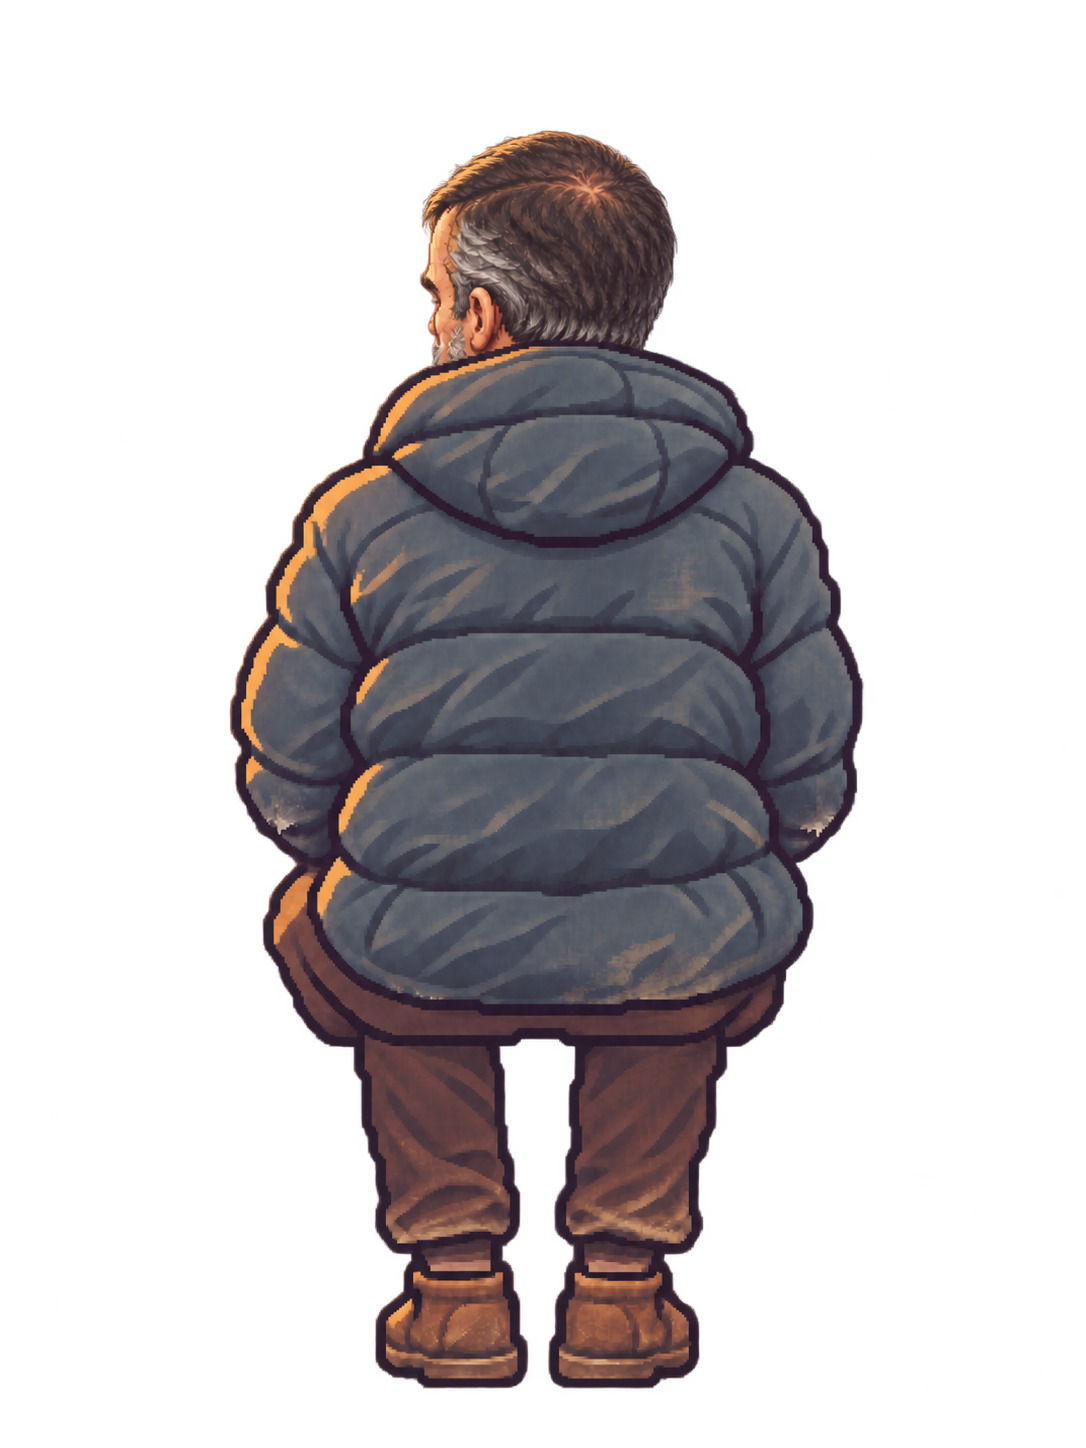
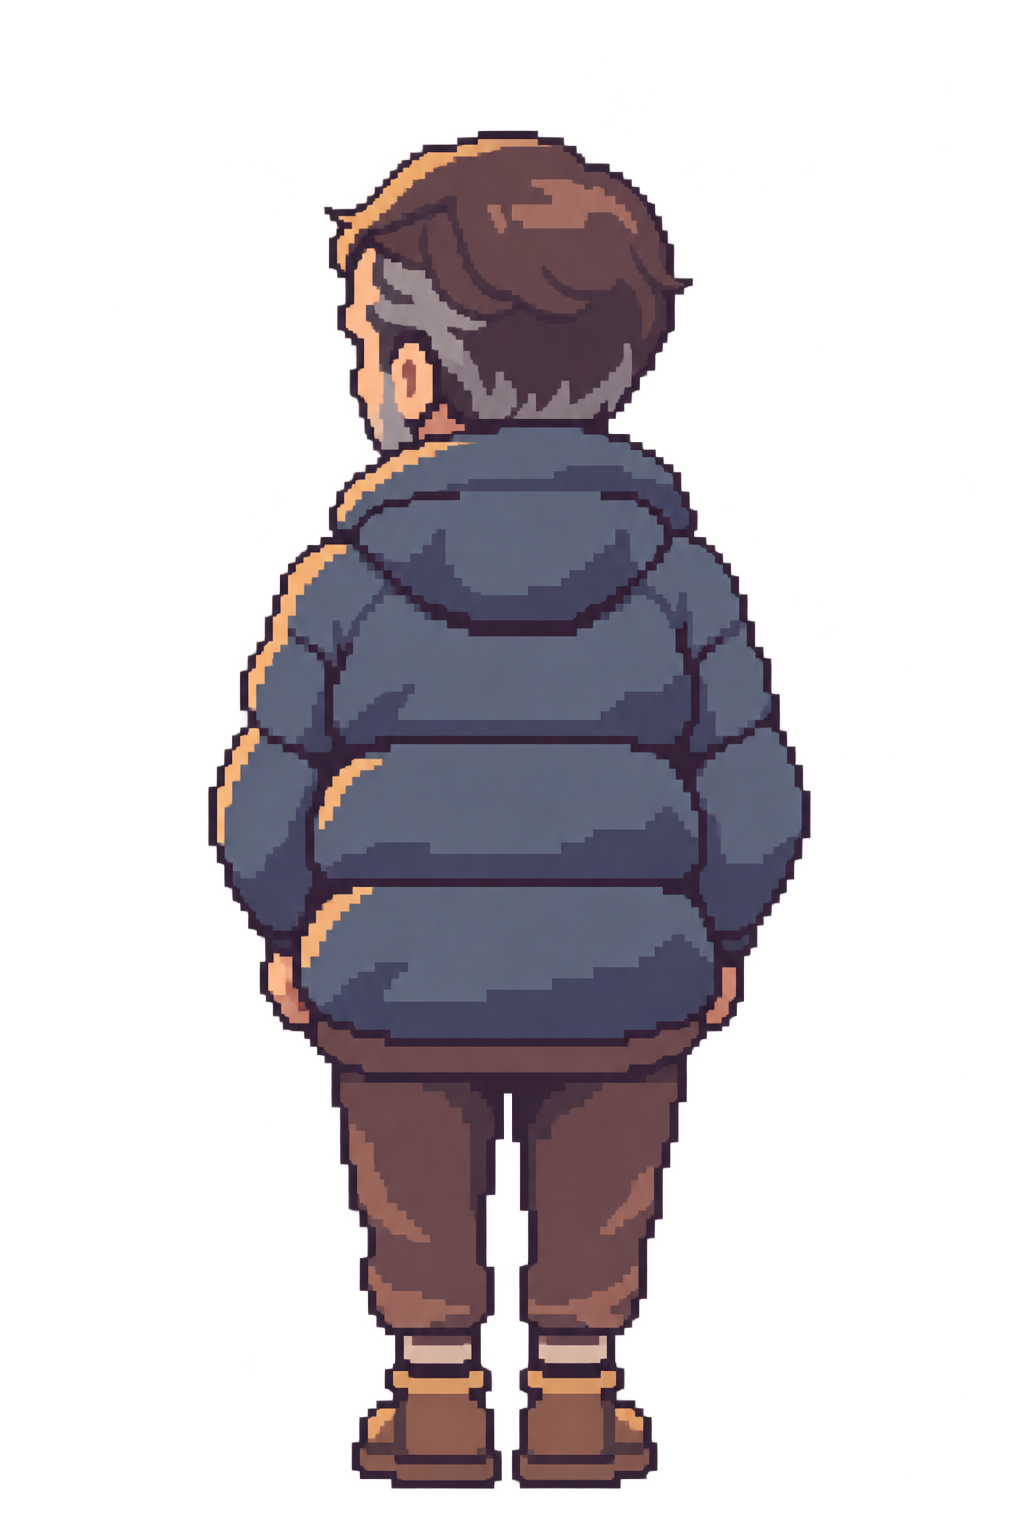
Match traveler sprite to protagonist pixel art style

Changed region(s): [[0.1875, 0.0622, 0.8125, 0.9945]]

diff --git a/game.js b/game.js
@@ -147,7 +147,7 @@ $('enterAct').onclick=()=>{chime();enterAct()};$('nextBtn').onclick=next;$('word
 document.querySelectorAll('[data-place]').forEach(b=>b.onclick=()=>observe(b.dataset.place));$('leaveBtn').onclick=leave;$('quietBtn').onclick=quiet;$('quietEnd').onclick=endQuiet;$('quietNextAct').onclick=quietNextAct;$('soundBtn').onclick=soundToggle;$('pauseBtn').onclick=()=>togglePause();$('resumeBtn').onclick=()=>togglePause(false);
 $('journalBtn').onclick=()=>{renderNotes();ui.show('journal')};$('closeJournal').onclick=()=>ui.hide('journal');$('stayBtn').onclick=()=>{ui.hide('ending');state.mode='explore';state.head=0;explore();$('exploreText').textContent='故事先停在这里。你可以再听一会儿风。';$('leaveBtn').textContent='回到结尾 →';$('leaveBtn').onclick=showEnding};$('restartBtn').onclick=()=>{state.notes=[];state.tea=false;state.choice='';$('noteCount').textContent='0';$('leaveBtn').onclick=leave;chapter(1)};
 document.addEventListener('keydown',e=>{if(e.code==='Escape'){e.preventDefault();if(!$('journal').hidden){ui.hide('journal');return}togglePause();return}if((e.code==='Space'||e.code==='Enter')&&!['BUTTON','INPUT','TEXTAREA'].includes(document.activeElement.tagName)){if(state.mode==='dialogue'){e.preventDefault();next()}}});document.addEventListener('visibilitychange',syncAudio);
-Promise.all([imageLoad('assets/station.png'),imageLoad('assets/station-clean.png'),imageLoad('assets/heads.png'),imageLoad('assets/green-train.png'),imageLoad('assets/traveler.png')]).then(images=>{[base,clean,headSheet,trainImage,travelerImage]=images;prepareLayers();state.loaded=true;ui.hide('loading')}).catch(err=>{$('loading').replaceChildren();const msg=document.createElement('p');msg.textContent='没能走到车站。请刷新页面再试一次。';$('loading').append(msg);console.error(err)});
+Promise.all([imageLoad('assets/station.png'),imageLoad('assets/station-clean.png'),imageLoad('assets/heads.png'),imageLoad('assets/green-train.png'),imageLoad('assets/traveler.png?v=pixel-style-3')]).then(images=>{[base,clean,headSheet,trainImage,travelerImage]=images;prepareLayers();state.loaded=true;ui.hide('loading')}).catch(err=>{$('loading').replaceChildren();const msg=document.createElement('p');msg.textContent='没能走到车站。请刷新页面再试一次。';$('loading').append(msg);console.error(err)});
 requestAnimationFrame(frame);
 // Inspectable state for prototype verification; no network telemetry or persistence.
 window.gameDebug={state,chapter,enterAct,observe,next,leave,quiet,endQuiet,finishChoice,showEnding,finishArrival,render,headFrames};

diff --git a/index.html b/index.html
@@ -17,5 +17,5 @@
  <div id="loading">正在走向小站<span>· · ·</span></div><div id="toast" role="status"></div>
  <footer id="controls" hidden>点击风景探索 · 空格 / 回车继续 · Esc 暂停</footer>
 </main>
-<script src="game.js"></script>
+<script src="game.js?v=pixel-style-3"></script>
 </body></html>

diff --git a/README.md b/README.md
@@ -10,7 +10,7 @@
 
 两幕分别是「今天还会来吗」和「留一点温度」。第二幕包含绿皮火车进站、风尘仆仆的中年旅客、夜风与热水的对话，以及三个结尾回应。
 
-云层、枝叶、落叶持续运动；人物对白时转头，第二幕夜色更深，站灯偶尔轻闪。支持系统减少动态效果设置。环境声通过 Web Audio 本地合成，无第三方运行时或网络音频依赖。
+云层、枝叶、落叶持续运动；人物对白时转头，第二幕夜色更深，站灯偶尔轻闪。两位人物统一采用日系像素画的头身比、轮廓线和块面明暗，旅客保留灰白鬓角与旧羽绒服。支持系统减少动态效果设置。环境声通过 Web Audio 本地合成，无第三方运行时或网络音频依赖。
 
 ## 本地运行
 
